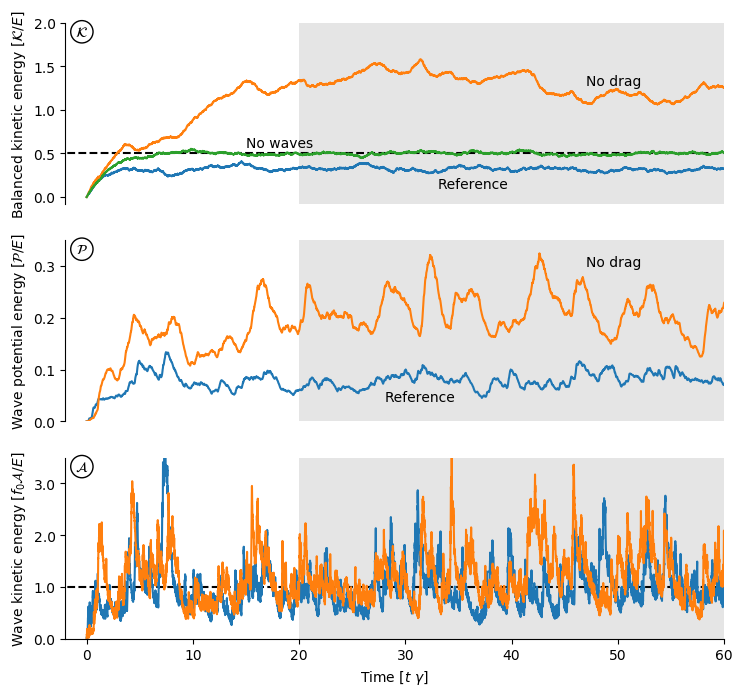
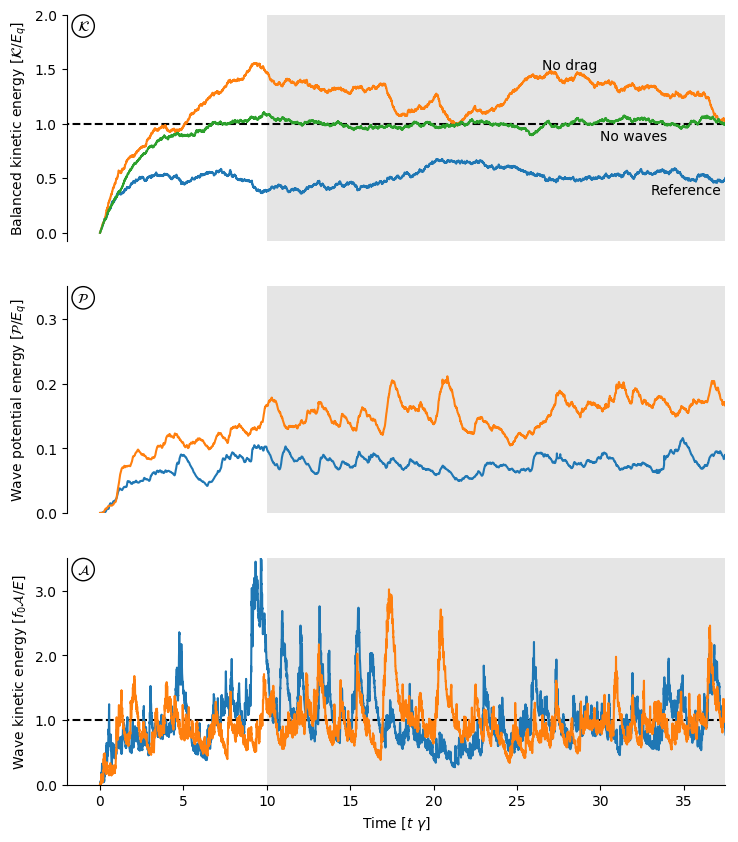
Updates plotting scripts

Changed region(s): [[0.0, 0.3319, 0.9973, 0.9957], [0.1247, 0.0, 0.9973, 0.3017], [0.0, 0.0, 0.1558, 0.6336]]

diff --git a/code/CompareDiagnostics.py b/code/CompareDiagnostics.py
@@ -12,9 +12,9 @@ import scipy.signal as signal
 
 plt.close('all')
 
-pathi_nodrag = "output/new/512_nodrag/"
+pathi_nodrag = "output/newest/512_nodrag/"
 pathi_nowaves = "output/new/512_nowaves/"
-pathi_reference = "output/new/512_reference/"
+pathi_reference = "output/newest/512_reference/"
 patho = "../writeup/figs/"
 
 #
@@ -54,7 +54,6 @@ U0 = 0.25                   # guessed equilibrated RMS velocity
 epsilon = (U0**2)*mu       # estimated energy input
 sigma_q = np.sqrt(epsilon) # the standard deviation of the random forcing
 sigma_w = 4*sigma_q
-
 
 # time
 dt = 0.000125*Tmu/4
@@ -97,6 +96,7 @@ diags_reference = h5py.File(pathi_reference+"diagnostics.h5","r")
 diags_nodrag = h5py.File(pathi_nodrag+"diagnostics.h5","r")
 diags_nowaves = h5py.File(pathi_nowaves+"diagnostics.h5","r")
 time = diags_reference['time'][:]*gamma
+timend = diags_nodrag['time'][:]*gamma
 
 #
 # plotting
@@ -106,59 +106,64 @@ time = diags_reference['time'][:]*gamma
 #E = epsilon_q/gamma
 Ew = PHI**2 / 2
 E = Ew
+Eq = Ew/2
 K = (sigma_q**2)/mu/2
 POWER = (sigma_w**2 / 2)
 
 # energies
-fig = plt.figure(figsize=(8.5,8.))
+fig = plt.figure(figsize=(8.5,10.))
 ax = fig.add_subplot(311)
-plt.plot([-5,65],[K,K]/E,'k--')
-pk = plt.plot(time,diags_reference['ke_qg'][:]/E)
-pp = plt.plot(time,diags_nodrag['ke_qg'][:]/E)
-plt.plot(time,diags_nowaves['ke_qg'][:]/E)
-plt.xlim(-2,60)
-plt.ylabel(r"Balanced kinetic energy $[\mathcal{K}/E]$")
+plt.plot([-5,65],[K,K]/Eq,'k--')
+pk = plt.plot(time,diags_reference['ke_qg'][:]/Eq)
+pp = plt.plot(timend,diags_nodrag['ke_qg'][:]/Eq)
+plt.plot(time,diags_nowaves['ke_qg'][:]/Eq)
+plt.xlim(-2,37.5)
+plt.ylabel(r"Balanced kinetic energy $[\mathcal{K}/E_q]$")
 plt.yticks([0,0.5,1.0,1.5,2.0])
 plt.legend(loc=(0.35,-0.2),ncol=3)
+#remove_axes(ax,bottom=True)
 remove_axes(ax,bottom=True)
 plot_fig_label(ax,xc=0.025,yc=0.95,label=r'$\mathcal{K}$')
 
-plt.text(47,1.28,'No drag')
-plt.text(33,0.1,'Reference')
-plt.text(15,0.575,'No waves')
+plt.text(26.5,1.5,r"No-drag")
+plt.text(33,0.35,'Reference')
+plt.text(29.5,0.85,'No-wave')
 
-plt.axvspan(20, 60, facecolor='k', alpha=0.1)
+plt.axvspan(10, 60, facecolor='k', alpha=0.1)
 
 ax = fig.add_subplot(312)
 plt.plot(time,(diags_reference['pe_niw'][:])/E,label=r'Reference',color=pk[0].get_color())
-plt.plot(time,(diags_nodrag['pe_niw'][:])/E,label=r'No drag',color=pp[0].get_color())
-plt.ylabel(r"Wave potential energy $[\mathcal{P}/E]$")
+plt.plot(timend,(diags_nodrag['pe_niw'][:])/E,label=r'No drag',color=pp[0].get_color())
+plt.ylabel(r"Wave potential energy $[\mathcal{P}/E_q]$")
 plt.ylim(0,.35)
 plt.yticks([0,0.1,.2,.3])
-plt.xlim(-2,60)
+plt.xlim(-2,37.5)
 remove_axes(ax)
 plot_fig_label(ax,xc=0.025,yc=0.95,label=r'$\mathcal{P}$')
 remove_axes(ax,bottom=True)
-plt.text(47,0.3,'No drag')
-plt.text(28,0.04,'Reference')
+plt.text(26.5,0.2,'No-drag')
+plt.text(30,0.04,'Reference')
 
-plt.axvspan(20, 60, facecolor='k', alpha=0.1)
+plt.axvspan(10,60, facecolor='k', alpha=0.1)
 
 ax = fig.add_subplot(313)
 plt.plot([-5,65],[Ew,Ew]/E,'k--')
 plt.plot(time,(diags_reference['ke_niw'][:])/E,label=r'Reference',color=pk[0].get_color())
-plt.plot(time,(diags_nodrag['ke_niw'][:])/E,label=r'No drag',color=pp[0].get_color())
-plt.ylabel(r"Wave kinetic energy $[f_0\mathcal{A}/E]$")
+plt.plot(timend,(diags_nodrag['ke_niw'][:])/E,label=r'No drag',color=pp[0].get_color())
+plt.ylabel(r"Wave kinetic energy $[f_0\mathcal{A}/E_w]$")
 plt.xlabel(r"Time $[t\,\,\gamma]$")
-plt.xlim(-2,60)
+plt.xlim(-2,37.5)
 remove_axes(ax)
 plt.ylim(0,3.5)
 
-plt.axvspan(20, 60, facecolor='k', alpha=0.1)
+plt.axvspan(10, 60, facecolor='k', alpha=0.1)
 
 plt.yticks([0,1.0,2.0,3.0],["0.0","1.0","2.0","3.0"])
 plot_fig_label(ax,xc=0.025,yc=0.95,label=r'$\mathcal{A}$')
-plt.savefig(patho+'energies_comparison' , pad_inces=0, bbox_inches='tight')
+plt.savefig('figs/ForcedDissipative_ComparisonEnergy.png' , pad_inces=0, bbox_inches='tight')
+plt.savefig('figs/ForcedDissipative_ComparisonEnergy.tiff' , pad_inces=0, bbox_inches='tight')
+
+stop
 
 ## averages
 #Am =  diags['ke_niw'][eq].mean()

diff --git a/code/ReferenceSolution.py b/code/ReferenceSolution.py
@@ -72,12 +72,13 @@ sigma_w = 4*sigma_q
 # time
 dt = 0.000125*Tmu/4
 tmax = 60.*Tgamma
+tmax = 40*Tgamma
 #tmax = 80.*Tgamma
 
 # outputs
-path = "output/new/512_reference"
-path_nodrag = "output/new/512_nodrag"
-path_nowaves = "output/new/512_nowaves"
+path = "output/newest/512_reference"
+path_nodrag = "output/newest/512_nodrag"
+path_nowaves = "output/newest/512_nowaves"
 
 #
 # theoretical predictions
@@ -120,15 +121,15 @@ hslash = eta/PSI      # dispersivity
 #
 
 # initialize model class
-model = CoupledModel.Model(L=L,nx=nx, tmax = tmax,dt = dt, twrite=200,
-                    nu4=0.,mu=mu,nu4w=0.,nu=0,nuw=0,muw=gamma,
-                    use_filter=True,save_to_disk=True,
-                    tsave_snapshots=50,path=path,
-                    U = 0., tdiags=50,
-                    f=f0,N=N,m=m,
-                    wavenumber_forcing=kf,width_forcing=dkf,
-                    sigma_q=sigma_q, sigma_w=sigma_w,
-                    use_mkl=True,nthreads=12)
+#model = CoupledModel.Model(L=L,nx=nx, tmax = tmax,dt = dt, twrite=200,
+#                    nu4=0.,mu=mu,nu4w=0.,nu=0,nuw=0,muw=gamma,
+#                    use_filter=True,save_to_disk=True,
+#                    tsave_snapshots=50,path=path,
+#                    U = 0., tdiags=50,
+#                    f=f0,N=N,m=m,
+#                    wavenumber_forcing=kf,width_forcing=dkf,
+#                    sigma_q=sigma_q, sigma_w=sigma_w,
+#                    use_mkl=True,nthreads=12)
 
 model_nodrag = CoupledModel.Model(L=L,nx=nx, tmax = tmax,dt = dt, twrite=200,
                     nu4=0.,mu=0.,nu4w=0.,nu=0,nuw=0,muw=gamma,
@@ -140,37 +141,36 @@ model_nodrag = CoupledModel.Model(L=L,nx=nx, tmax = tmax,dt = dt, twrite=200,
                     sigma_q=sigma_q, sigma_w=sigma_w,
                     use_mkl=True,nthreads=12)
 
-model_nowaves = CoupledModel.Model(L=L,nx=nx, tmax = tmax,dt = dt, twrite=200,
-                    nu4=0.,mu=mu,nu4w=0.,nu=0,nuw=0,muw=gamma*0,
-                    use_filter=True,save_to_disk=True,
-                    tsave_snapshots=50,path=path_nowaves,
-                    U = 0., tdiags=50,
-                    f=f0,N=N,m=m,
-                    wavenumber_forcing=kf,width_forcing=dkf,
-                    sigma_q=sigma_q, sigma_w=sigma_w*0,
-                    use_mkl=True,nthreads=12)
+#model_nowaves = CoupledModel.Model(L=L,nx=nx, tmax = tmax,dt = dt, twrite=200,
+#                    nu4=0.,mu=mu,nu4w=0.,nu=0,nuw=0,muw=gamma*0,
+#                    use_filter=True,save_to_disk=True,
+#                    tsave_snapshots=50,path=path_nowaves,
+#                    U = 0., tdiags=50,
+#                    f=f0,N=N,m=m,
+#                    wavenumber_forcing=kf,width_forcing=dkf,
+#                    sigma_q=sigma_q, sigma_w=sigma_w*0,
+#                    use_mkl=True,nthreads=12)
 
 
 # rest initial conditions
-model.set_q(np.zeros([model.nx]*2))
-model.set_phi(np.zeros([model.nx]*2)+0j)
-model._invert()
+#model.set_q(np.zeros([model.nx]*2))
+#model.set_phi(np.zeros([model.nx]*2)+0j)
+#model._invert()
 
-model_nodrag.set_q(np.zeros([model.nx]*2))
-model_nodrag.set_phi(np.zeros([model.nx]*2)+0j)
+model_nodrag.set_q(np.zeros([model_nodrag.nx]*2))
+model_nodrag.set_phi(np.zeros([model_nodrag.nx]*2)+0j)
 model_nodrag._invert()
-
-model_nowaves.set_q(np.zeros([model.nx]*2))
-model_nowaves.set_phi(np.zeros([model.nx]*2)+0j)
-model_nowaves._invert()
+#
+#model_nowaves.set_q(np.zeros([model.nx]*2))
+#model_nowaves.set_phi(np.zeros([model.nx]*2)+0j)
+#model_nowaves._invert()
 
 
 #
 # run the model
 #
 model_nodrag.run()
-model.run()
-model_nowaves.run()
+#model.run()
+#model_nowaves.run()
 
 
-1222

diff --git a/code/Utils.py b/code/Utils.py
@@ -41,6 +41,7 @@ def save_parameters(model):
 
     h5file.close()
 
+
 def plot_fig_label(ax, xc=.95, yc=0.075 ,label="a",boxstyle='circle',
                         facecolor='white',edgecolor=None,color=None,alpha=1.):
     """ Plot label numbering for multi-panel figures """
